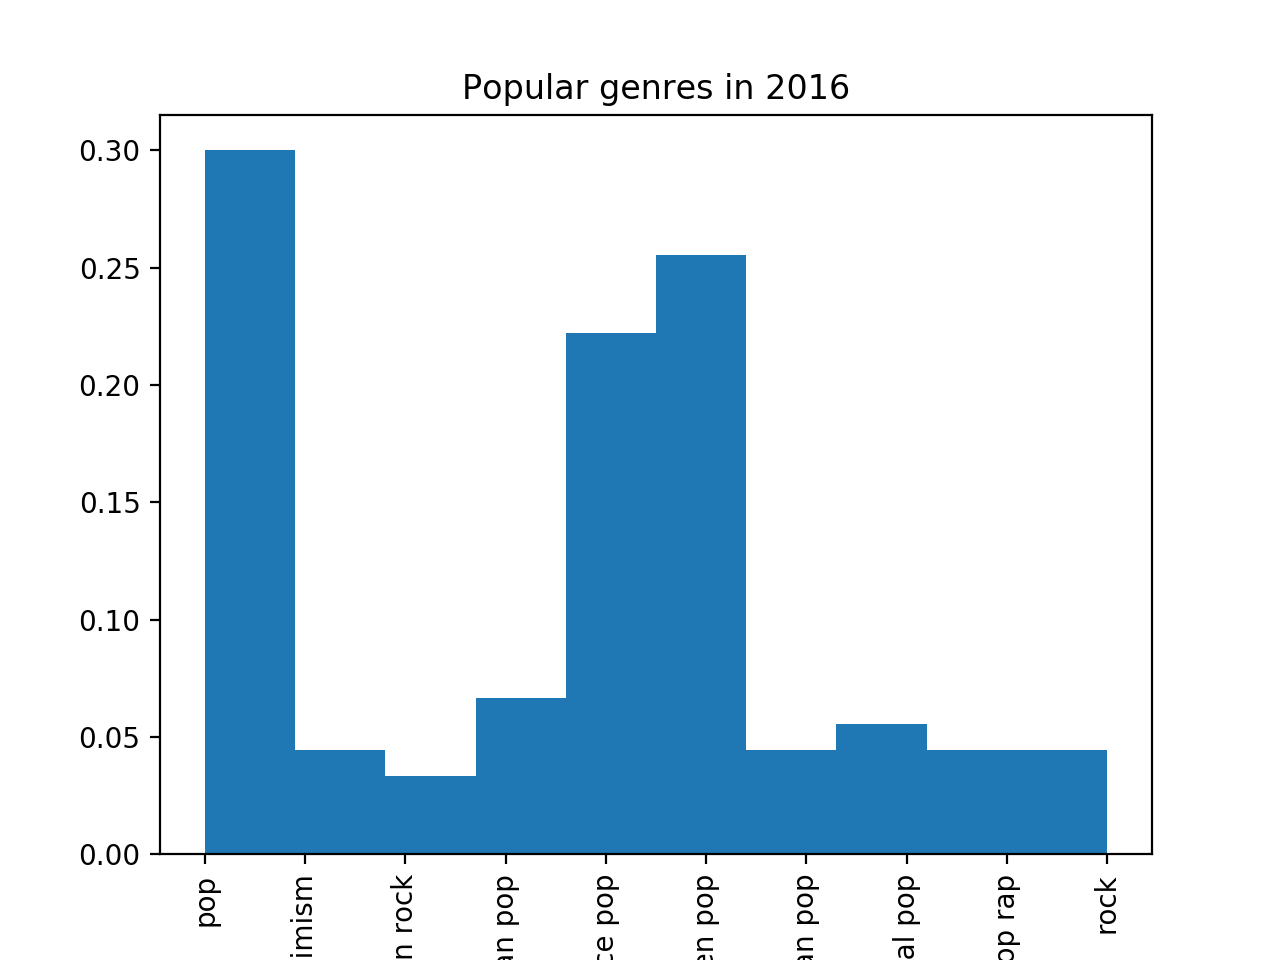
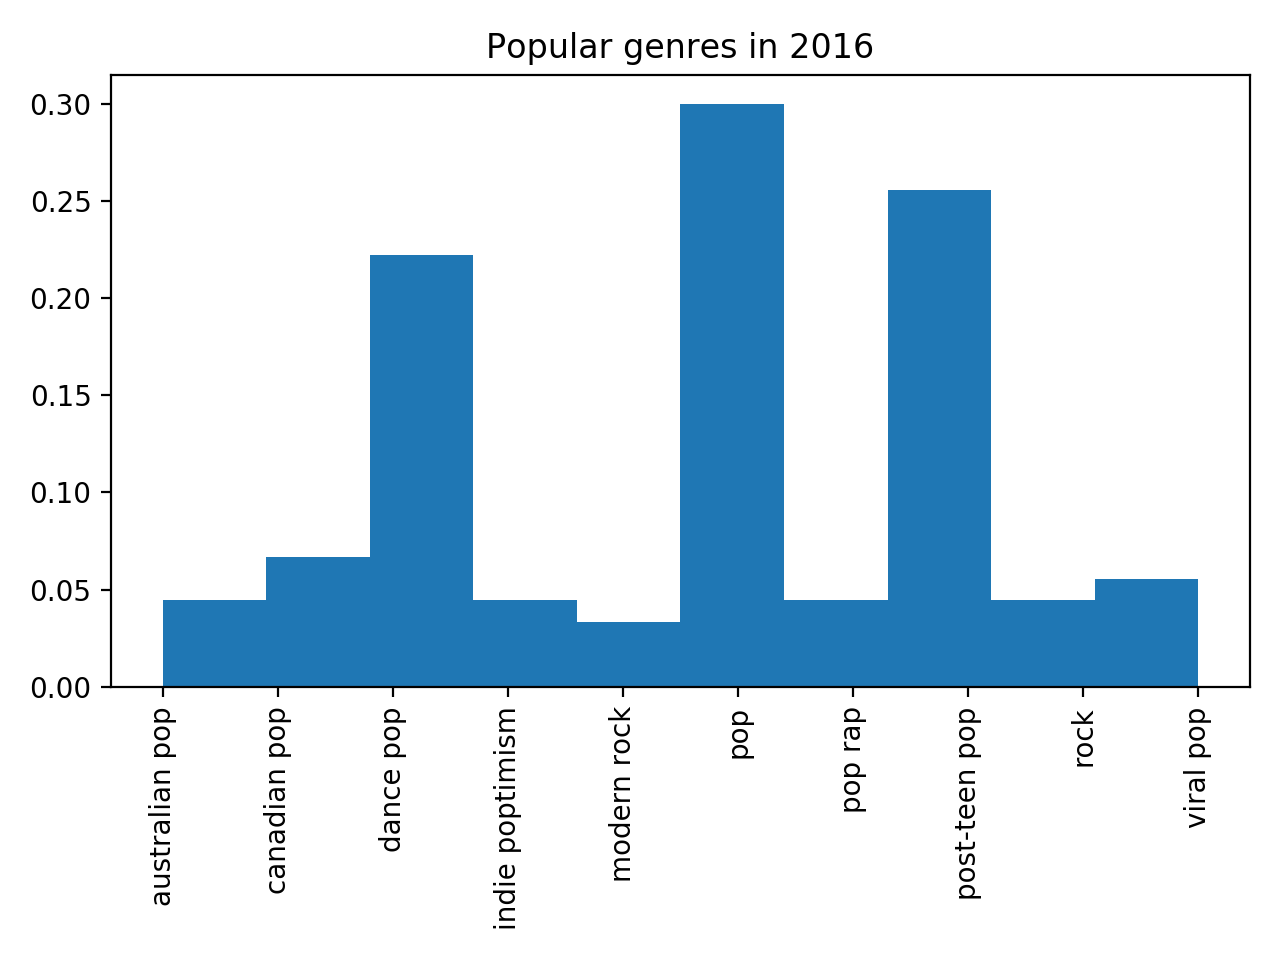
fixed image cutoffs

diff --git a/Visualization.py b/Visualization.py
@@ -10,7 +10,7 @@ from collections import Counter
 dfDiff = pd.read_csv("DifferenceTable.csv")
 dfKidzBop = pd.read_csv("KidzBopTable.csv")
 dfOriginal = pd.read_csv('OriginalTable.csv')
-
+"""
 # create first plot 
 plt.figure(1)
 # first plot: popularity of kidzbop versus dfOriginal
@@ -76,7 +76,7 @@ plt.imshow(addedWC, interpolation='bilinear')
 plt.title("Words Used to Replace Explicit Lyrics")
 plt.show()
  
-plt.figure(4, figsize=(12, 7))
+plt.figure(4, figsize=(10, 8))
 #plot 4: show differences in song qualities
 for i, word in enumerate(['Acousticness','Danceability','Energy','Instrumentalness','Liveness','Loudness','Speechiness','Valence','Tempo']):
     plt.subplot(9,1,i+1)
@@ -85,9 +85,9 @@ for i, word in enumerate(['Acousticness','Danceability','Energy','Instrumentalne
     if i == 0:
         plt.legend(loc='upper right') 
     plt.title(word)
-plt.subplots_adjust(hspace=1.2)
+plt.tight_layout()
 plt.show()
-
+"""
 # plot 5: distribution of genre popularity over time
 
 allGenres = list(map(lambda stringy: literal_eval(stringy), list(dfOriginal["Genres"])))
@@ -97,12 +97,10 @@ for i, year in enumerate(years):
     plt.figure(5+i)
     yearGenres = np.concatenate([genre for index, genre in enumerate(allGenres) if list(dfKidzBop["ReleaseDate"])[index][:-6] == year])
     topGenres = [genre for genre, _ in Counter(yearGenres).most_common(10)]
-    genres = [yearGenre for yearGenre in yearGenres if yearGenre in topGenres]
+    genres = sorted([yearGenre for yearGenre in yearGenres if yearGenre in topGenres])
 
     plt.hist(genres, density=True, label=year)
     plt.xticks(rotation=90)
     plt.title("Popular genres in %s" % year)
+    plt.tight_layout()
     plt.show()
-
-
-
